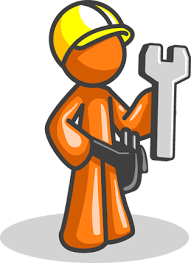
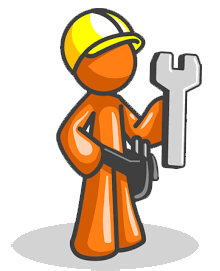
added fun pictures to nav

diff --git a/public/index.html b/public/index.html
@@ -15,8 +15,8 @@
   <div class="container-fluid">
     <div class="navbar-header">
       <a class="navbar-brand" href="#/">Fix D-Streets</a>
-      <span class="glyphicon glyphicon-road"></span>
-    </div>
+      <img id="worker" src="Images/constructionGuy.png">
+      </div>
     <ul class="nav navbar-nav">
       <li class="active"><a href="#/">Home</a></li>
       <li><a href="#/issues">Issues</a></li>

diff --git a/public/stylesheets/style.css b/public/stylesheets/style.css
@@ -3,7 +3,9 @@
   height: 500px;
 }
 #cone {
-  width: 5%;
   height: 3em;
   margin: 0.5%;
+}
+#worker {
+  height: 3.5em;
 }
